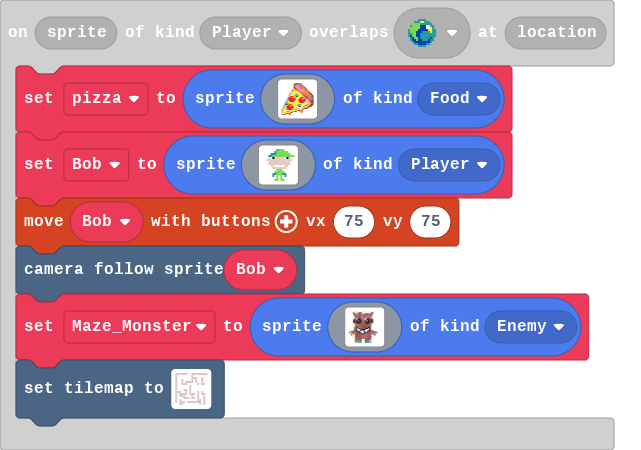
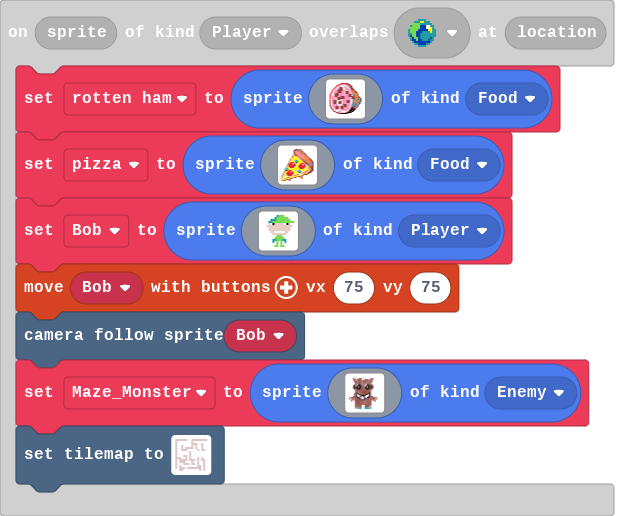
Update main.blocks, main.ts

diff --git a/main.ts b/main.ts
@@ -88,6 +88,40 @@ scene.onOverlapTile(SpriteKind.Player, sprites.builtin.crowd4, function (sprite,
     Fire_Monster.startEffect(effects.fire)
 })
 scene.onOverlapTile(SpriteKind.Player, sprites.dungeon.collectibleBlueCrystal, function (sprite, location) {
+    rotten_ham = sprites.create(img`
+        ...........222222ee.............
+        .........2233333bbeee...........
+        .......2233d1111333bee..........
+        ......23ddd111dd1d33eee.........
+        .....23d13eee1d33d13bee.........
+        ....23d133eeed1d33313eee........
+        ...231133eeeeddd3333dbeee.......
+        ..231333eeeee33ddd33d3e44e......
+        ..21d333eeee333deee33db44ee.....
+        .2313333eeee33ddeee33db444ee....
+        .2dd33eee33333d3eee33d3b444e....
+        2311deeee33333d3333eeedbb444e...
+        2d131eeee33333d3333eee1b6644e...
+        2d33deee333eeee3333eeeeee4444e..
+        21333d33eeeeeee333333deee4664ee.
+        21333d33eeeeeee333333deee64464be
+        21333dddeeedd33333333d1646446b6e
+        2133eeedd11dd3333eee3d1644b6446e
+        e133eeed1eeed3333eee3d1b4446446e
+        e133eee1deee13333eee31d6bb44b6e.
+        e133eee1deee1b3333333136bb6bb6e.
+        e13333331dd1dbeee33331b6b66bbe..
+        edd33333311db3eee333dd6bb6bbe...
+        e3d333eee3deeeeee333136beebbe...
+        .edd33eee33eee33333ddbfeebbe....
+        .e3dd3eee3deee33333d3efeeee.....
+        ..e3dd333d1333333dd3bfffff......
+        ...e311111ddd333dddbffeef.......
+        ....eed1d33d111113befeff........
+        ......eeb333dd13beffff..........
+        ........eeeefffffee.............
+        ................................
+        `, SpriteKind.Food)
     pizza = sprites.create(img`
         .............beebbbb............
         ............eebbbb4bb...........
@@ -528,6 +562,7 @@ let Air_Monster: Sprite = null
 let Lochness_Monster: Sprite = null
 let Maze_Monster: Sprite = null
 let pizza: Sprite = null
+let rotten_ham: Sprite = null
 let Fire_Monster: Sprite = null
 let Earth_Monster: Sprite = null
 let Bob: Sprite = null
